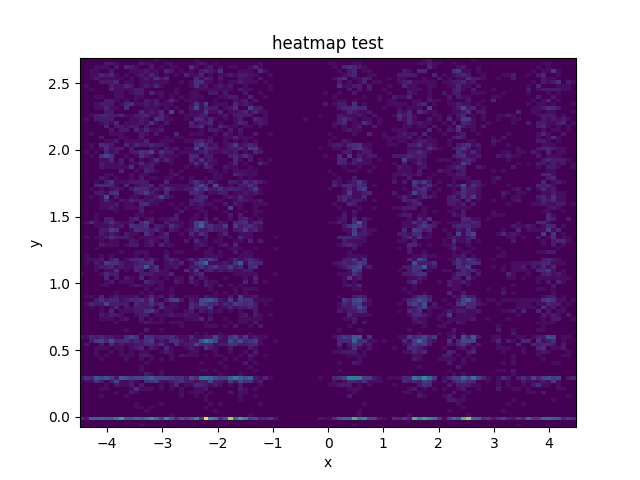
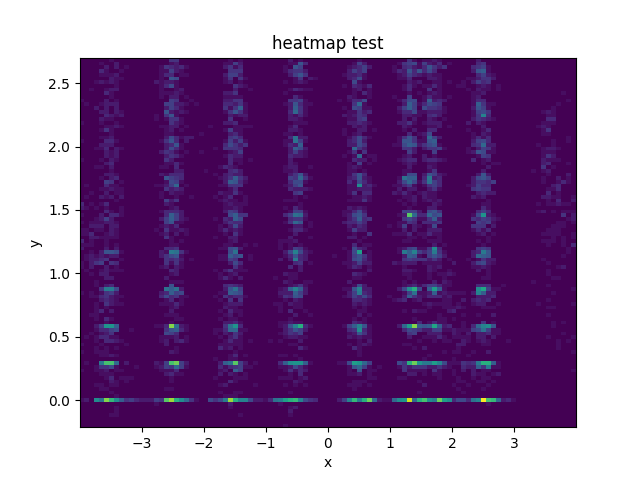
made changes to simulation and engine parameters

diff --git a/Simulations.py b/Simulations.py
@@ -328,7 +328,7 @@ class PolymerSimulation():
         self.boxdim[0] = self.parameter.getNumberChains()
         self.boxdim[1] = self.parameter.getLength()*16
 
-        boundary = hoomd.data.boxdim(Lx = self.boxdim[0]+1, Ly = self.boxdim[1], dimensions=2)
+        boundary = hoomd.data.boxdim(Lx = self.boxdim[0], Ly = self.boxdim[1], dimensions=2)
         snapshot = hoomd.data.make_snapshot(N=  int(self.parameter.getNumberChains()  *  self.parameter.getLength()), box=boundary, particle_types=types, bond_types=['polymer'])
 
         pos     = self.definePositions()
@@ -344,7 +344,6 @@ class PolymerSimulation():
         snapshot.particles.mass[:] = mass
 
         hoomd.init.read_snapshot(snapshot)
-
 
     def simulationReadMeDump(self,force = None,name=None, dir=None):
         text = None
@@ -403,7 +402,7 @@ class DataVisualizer():
             for i in range(rez):
                 p.append([])
                 for j in range(rez):
-                    p[-1].append(math.cos(j*2*math.pi/rez*boxdimx - boxdimx/2))
+                    p[-1].append(-math.cos(j*2*math.pi/rez*boxdimx - boxdimx/2))
 
             return p
 
@@ -443,7 +442,7 @@ class DataVisualizer():
                 y = self.gsd_data[int(i)].particles.position[:,1]
 
                 ax.clear()
-                ax.imshow(potential,extent=[xmin,xmax,ymin,ymax])
+                ax.imshow(potential,extent=[-self.parameters.getNumberChains()/2,self.parameters.getNumberChains()/2,ymin,ymax])
                 if circles == True:
                     for j in range(len(x)):
                         artists[j].center = (x[j],y[j])

diff --git a/Engine.py b/Engine.py
@@ -2,18 +2,18 @@ import Simulations
 
 parameters = Simulations.PolymerSimulationParameters()
 dt = 0.0000001
-runl = 10000000
+runl = 100000000
 vAverage = 0.05
-vs = 100000
+vs = 1000000
 print("\n\n\n\n\n")
-parameters.setLength(10)
+parameters.setLength(100)
 parameters.setNumberChains(8)
 parameters.setPairRadius(.3)
 parameters.setPairPotentialStrength(10e4)
 parameters.setPairRadiusEqualibrium(.3)
 parameters.setPairMaximumRadius(0.03)
 parameters.setForcePull(10)
-parameters.setPeriodicAmplitude(1)
+parameters.setPeriodicAmplitude(10)
 parameters.setGamma(0.5)
 parameters.setKBT(1)
 parameters.setTimeStep(dt)
